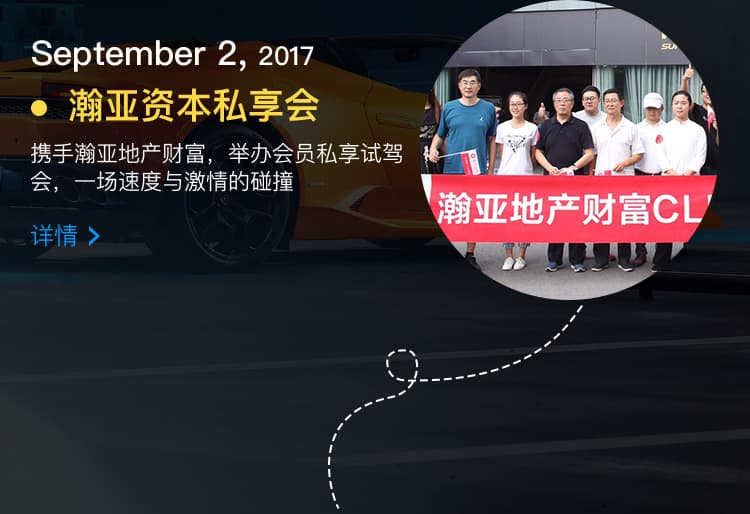
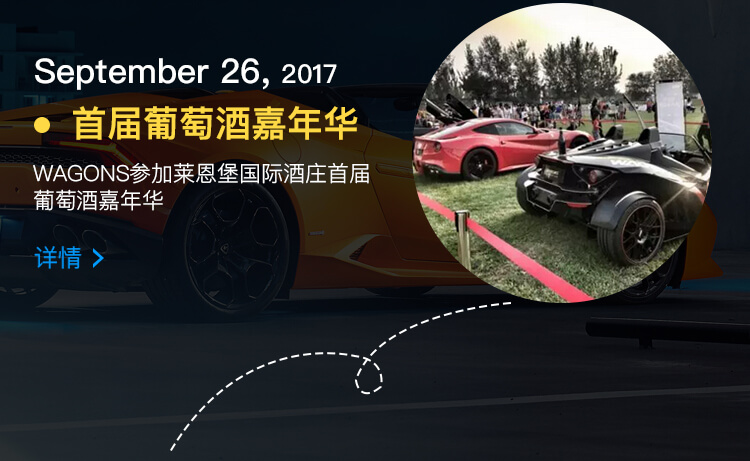
WAG-000:nojira

diff --git a/src/components/mobile/activelist.vue b/src/components/mobile/activelist.vue
@@ -30,6 +30,10 @@ export default {
                 require("../../assets/njd12_02.jpg"),
                 require("../../assets/njd13_02.jpg"),
                 require("../../assets/njd14_02.jpg"),
+                require("../../assets/njd15_02.jpg"),
+                require("../../assets/njd16_02.jpg"),
+                require("../../assets/njd17_02.jpg"),
+                require("../../assets/njd18_02.jpg"),
             ]
         }
     },
@@ -123,10 +127,22 @@ export default {
                         location.href = 'http://mp.weixin.qq.com/s/54ppUt-SQF8LtUXiHfk-Qg'
                         break;
                     case 11:
-                        location.href = 'http://mp.weixin.qq.com/s/54ppUt-SQF8LtUXiHfk-Qg'
+                        location.href = 'http://mp.weixin.qq.com/s/dZh5y5WBLWOAe8mWI9hLtw'
                         break;
                     case 12:
-                        location.href = 'http://mp.weixin.qq.com/s/54ppUt-SQF8LtUXiHfk-Qg'
+                        location.href = 'http://mp.weixin.qq.com/s/3XHmg88gHx2jZ2AYnjj4GQ'
+                        break;
+                    case 13:
+                        location.href = 'http://mp.weixin.qq.com/s/z2cJJ-E7QSH0PRatuozUWw'
+                        break;
+                    case 14:
+                        location.href = 'http://mp.weixin.qq.com/s/z2cJJ-E7QSH0PRatuozUWw'
+                        break;
+                    case 15:
+                        location.href = 'http://mp.weixin.qq.com/s/z2cJJ-E7QSH0PRatuozUWw'
+                        break;
+                    case 16:
+                        location.href = 'http://mp.weixin.qq.com/s/HM0JhE84tS7KkTkwa0CwiQ'
                         break;
                 }
             }
